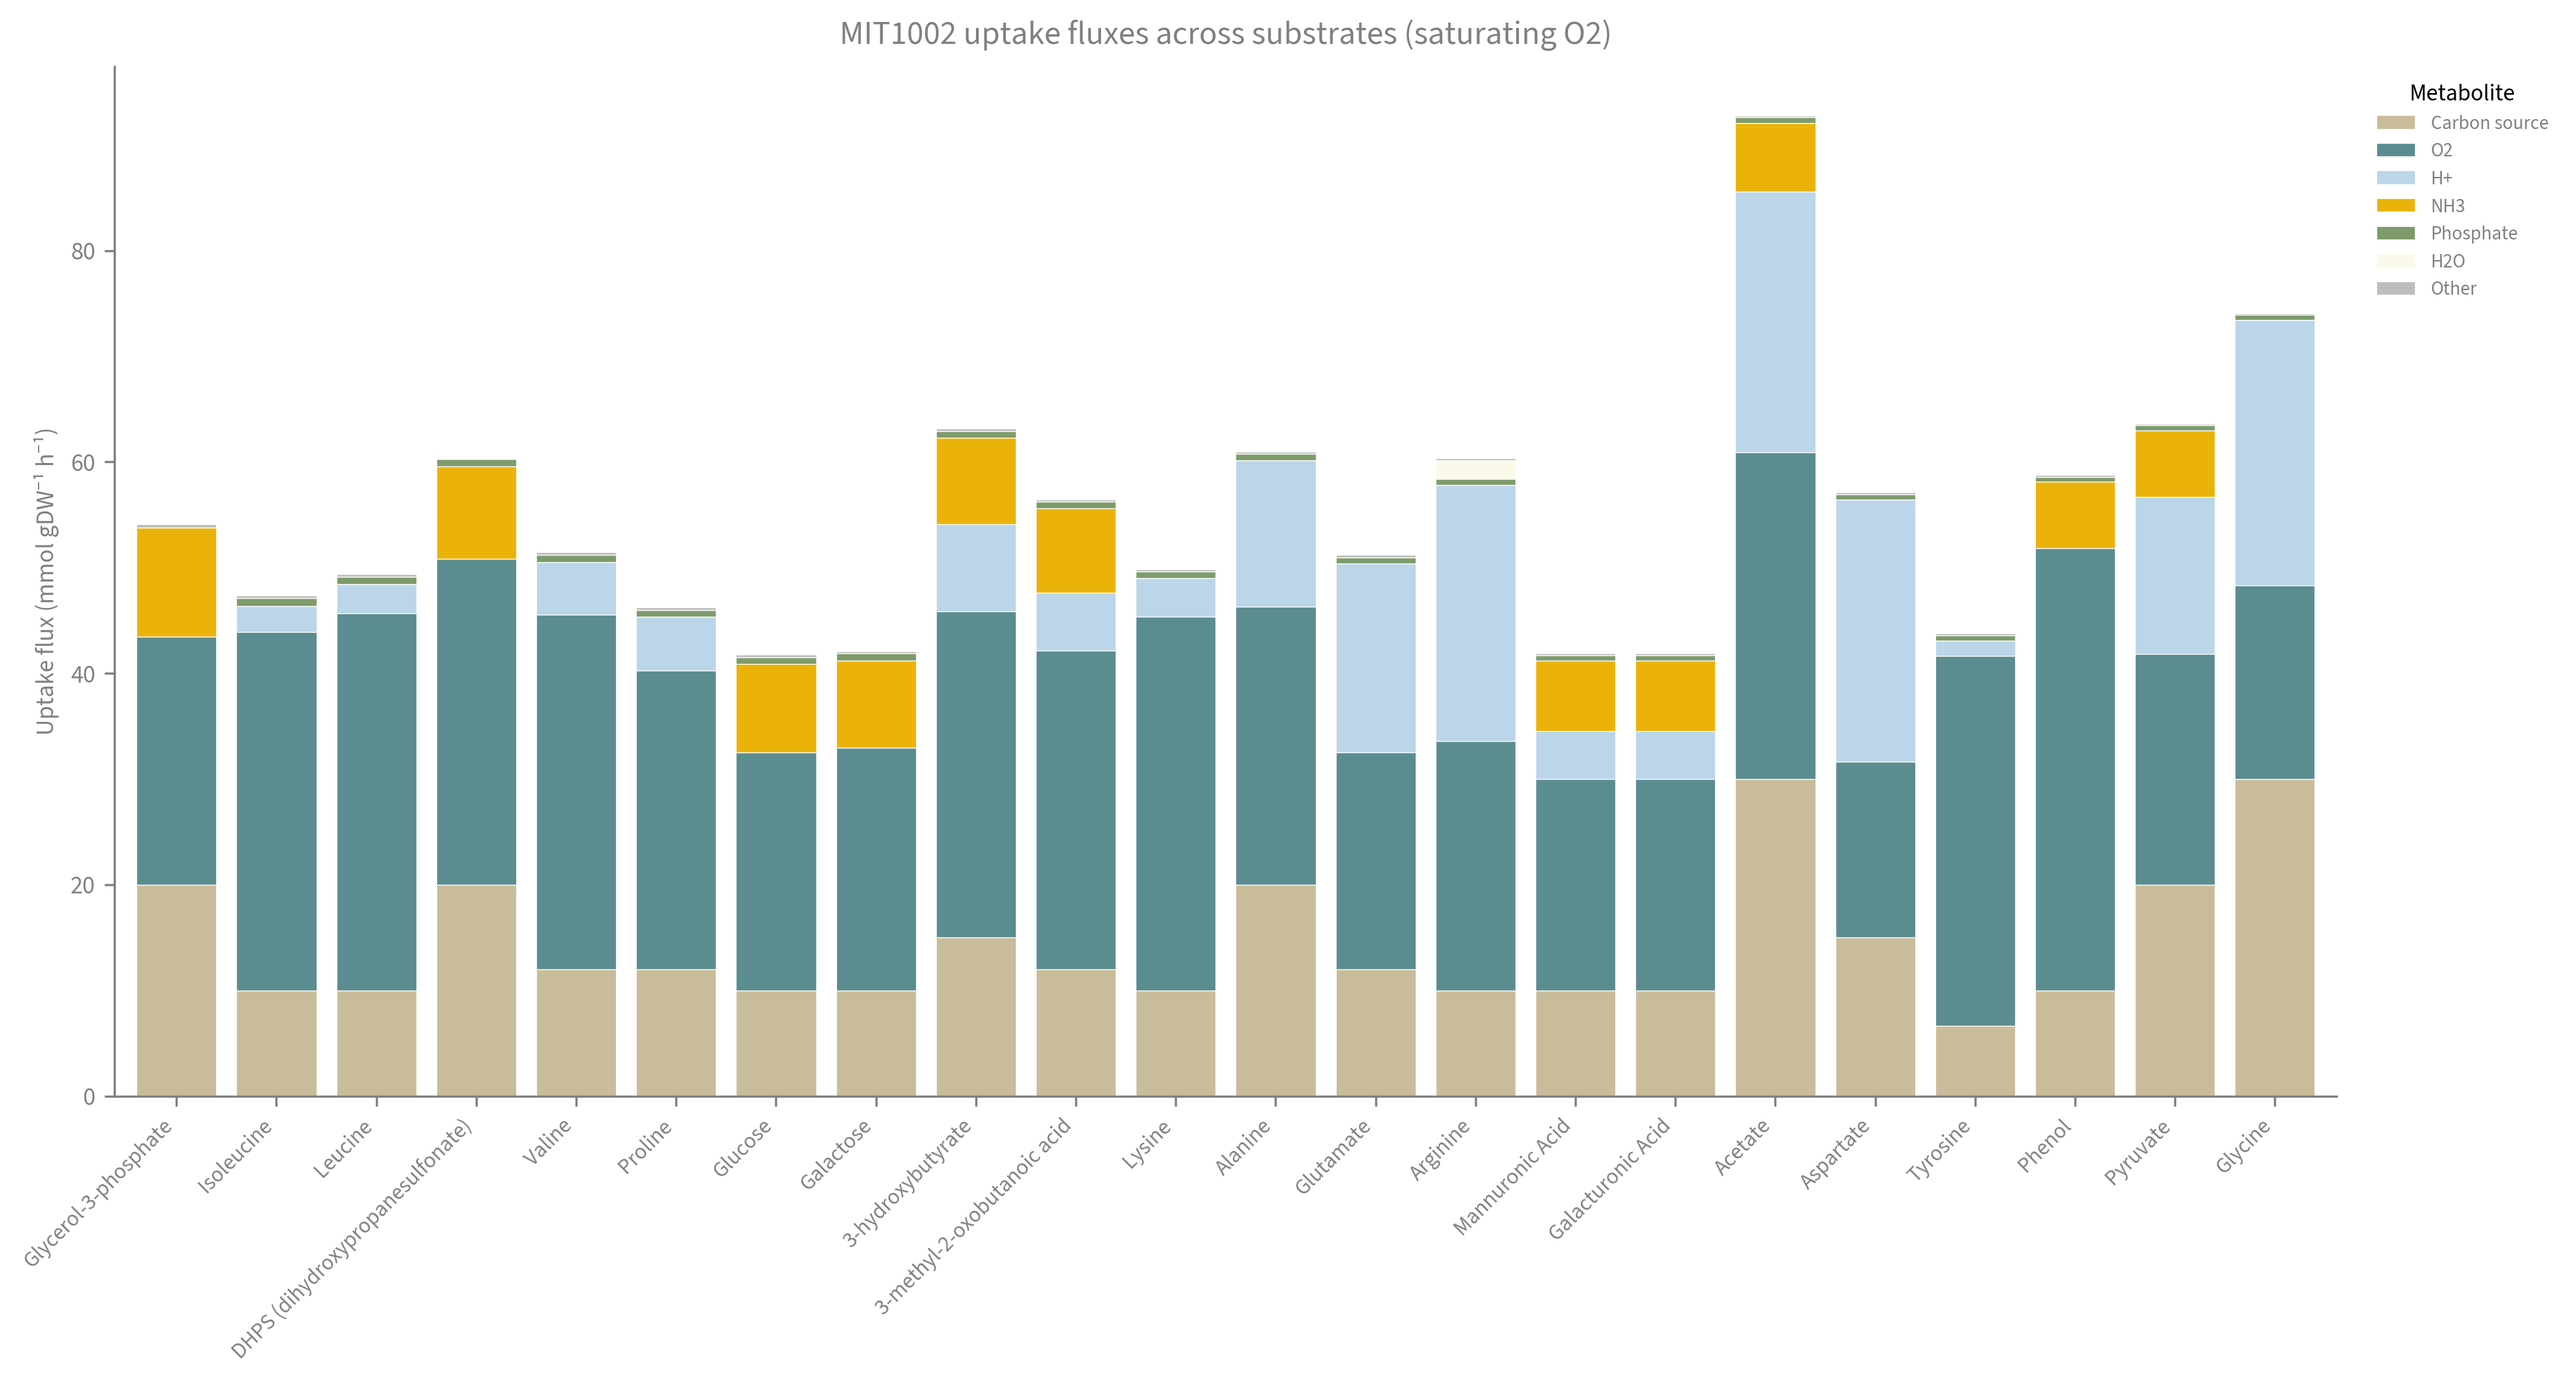
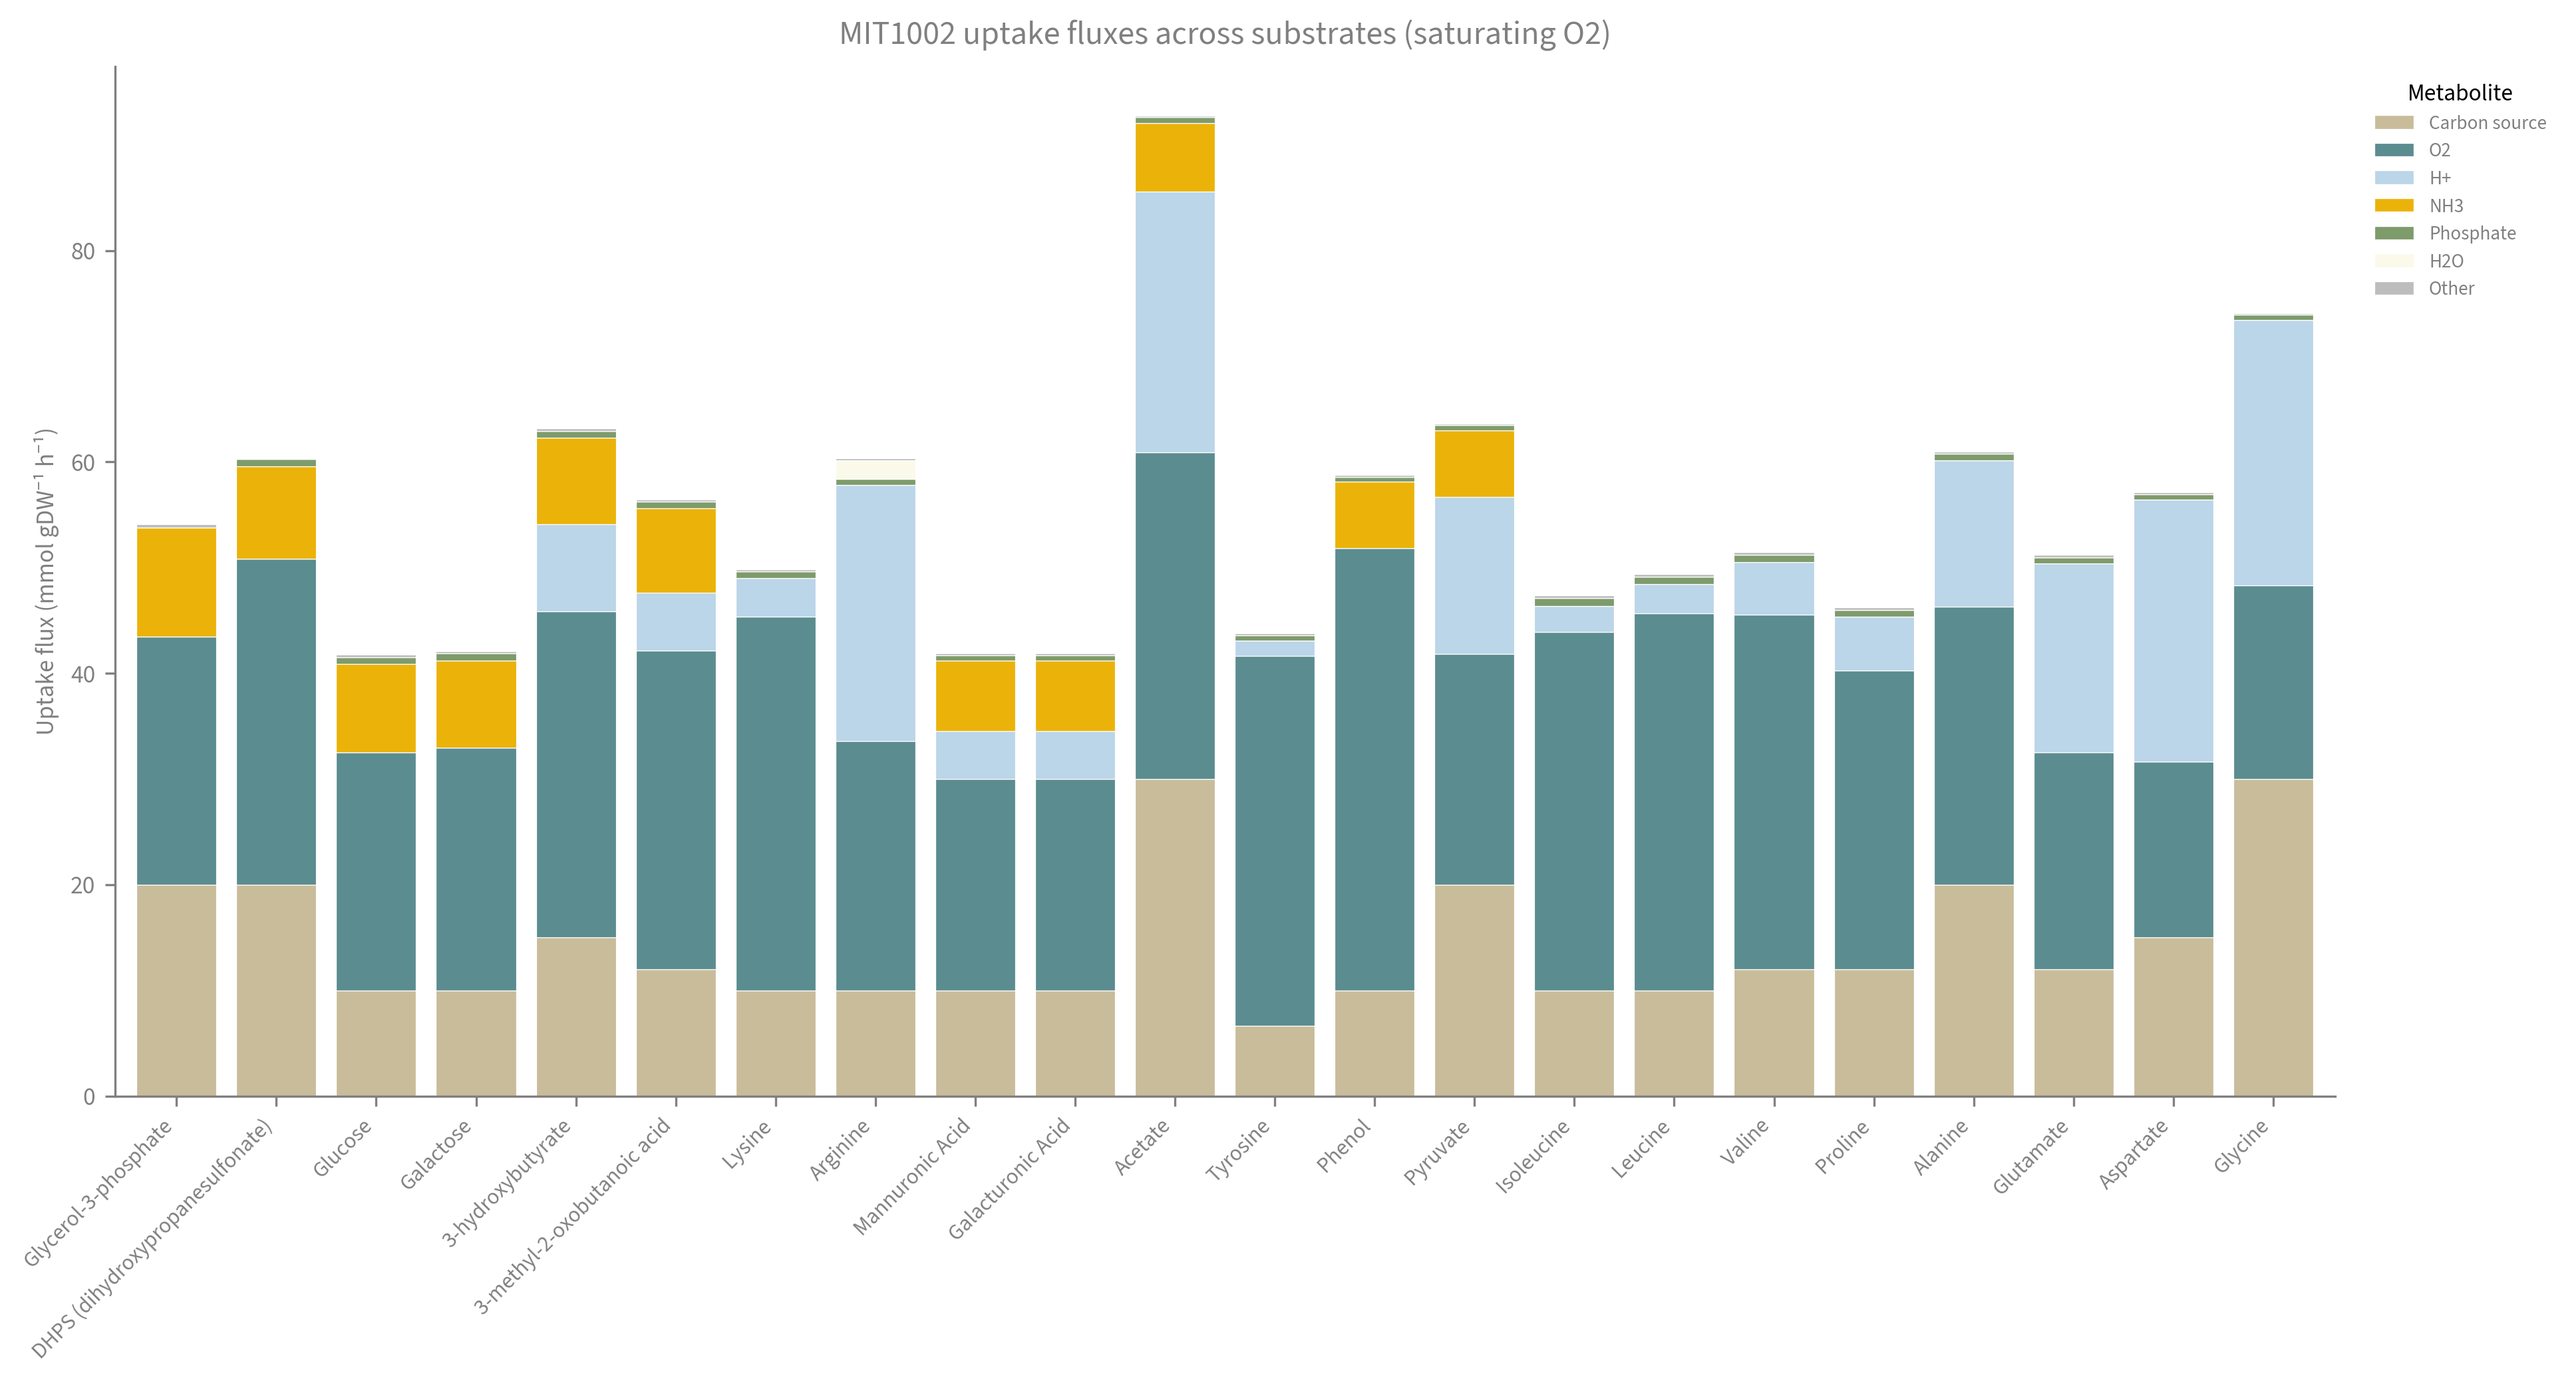
feat: separate the Prochlorococcus exometabolite's bars from other substrates

diff --git a/simulations/growth_and_cue/plot_exchanges.py b/simulations/growth_and_cue/plot_exchanges.py
@@ -53,6 +53,19 @@ H2O_COLOR = summer_colors["light_tan"]
 CARBON_SOURCE_COLOR = summer_colors["dark_tan"]  # all substrate carbon sources
 OTHER_COLOR = "#bdbdbd"  # grey — collapsed trace metabolites
 
+# Define which metabolites were measured in Prochlorococcus exometabolome
+# So we can separate those from the rest in the bars
+PRO_METABOLITES = [
+    "Isoleucine",
+    "Leucine",
+    "Valine",
+    "Proline",
+    "Alanine",
+    "Glutamate",
+    "Aspartate",
+    "Glycine",
+]
+
 
 def main():
     # Load the exchange fluxes (indexed by substrate and O2 level)
@@ -69,6 +82,13 @@ def main():
     # Load the substrate panel to get the names of the carbon sources
     substrate_df = pd.read_csv(IN_PATH / "substrate_panel.csv")
     carbon_source_names = substrate_df["name_in_model"].tolist()
+
+    # Re-order the rows (i.e. the bars) so the substrates that are also
+    # Prochlorococcus exometabolites are last (furthest right on the plot),
+    # in the order they are listed in PRO_METABOLITES.
+    pro_rows = [r for r in PRO_METABOLITES if r in ex_df.index]
+    other_rows = [r for r in ex_df.index if r not in pro_rows]
+    ex_df = ex_df.loc[other_rows + pro_rows]
 
     # Plot
     plot_exchange_stacks(ex_df, carbon_source_names, OUT_PATH)
